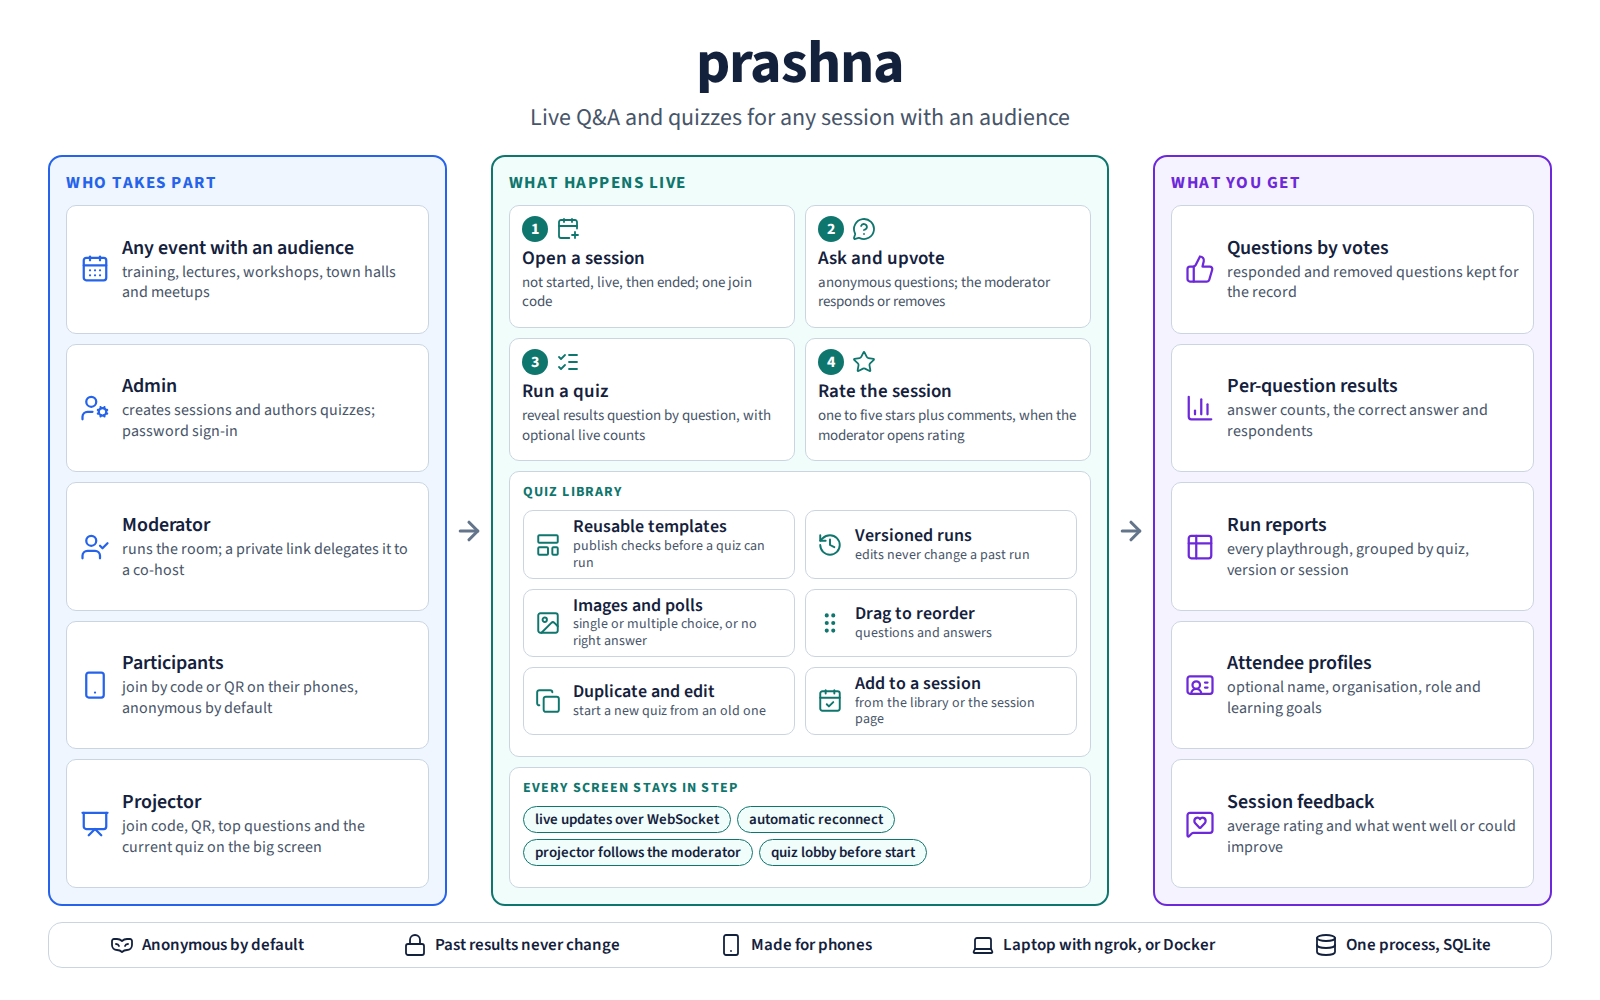
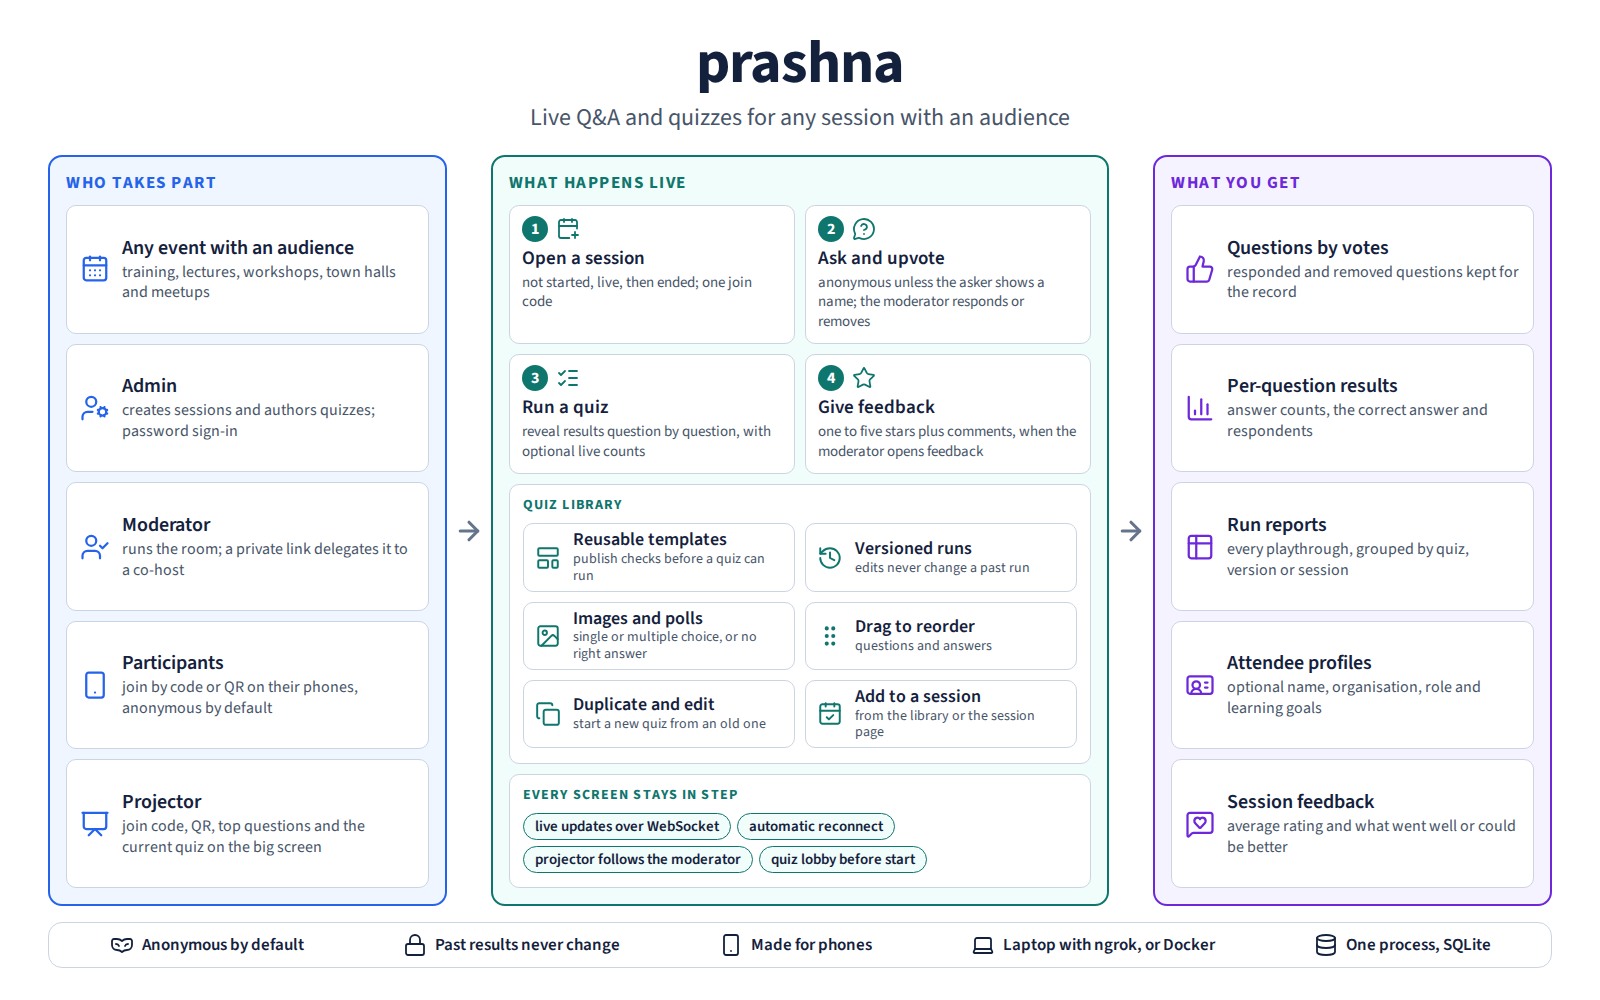
fix(export): call the session feedback column "Feedback open"
The session form (star rating plus comments) is called "Feedback"
everywhere people see it, and "rating" means only the stars. Two places
still used the old wording. The Excel Session sheet's "Rating open"
column is now "Feedback open". The JSON key stays `feedback_enabled`,
which already matches. The README infographic's fourth live step now
reads "Give feedback ... when the moderator opens feedback" instead of
"Rate the session ... when the moderator opens rating".

The infographic was also checked against the current specification.
The Ask step now says questions are anonymous unless the asker shows a
name (UC-P-04), and the feedback card uses the form's own "could be
better" label. The PNG is re-rendered with the project-infographic
renderer; infographic.css is unchanged.

Verified: the updated export tests failed before the rename and pass
after it. The full API and UI suite passes (763 passed, 1 skipped),
and pre-commit passes on all files.

The sankara.net website shows a copy of this infographic, which this
commit does not update.

Changed region(s): [[0.3125, 0.279, 0.6875, 0.868], [0.7812, 0.837, 0.8125, 0.868]]

diff --git a/docs/images/prashna-infographic.html b/docs/images/prashna-infographic.html
@@ -64,7 +64,7 @@
         </div>
         <div class="step">
           <div class="head"><span class="num">2</span><i data-icon="message-circle-question"></i></div>
-          <h3>Ask and upvote</h3><p>anonymous questions; the moderator responds or removes</p>
+          <h3>Ask and upvote</h3><p>anonymous unless the asker shows a name; the moderator responds or removes</p>
         </div>
         <div class="step">
           <div class="head"><span class="num">3</span><i data-icon="list-checks"></i></div>
@@ -72,7 +72,7 @@
         </div>
         <div class="step">
           <div class="head"><span class="num">4</span><i data-icon="star"></i></div>
-          <h3>Rate the session</h3><p>one to five stars plus comments, when the moderator opens rating</p>
+          <h3>Give feedback</h3><p>one to five stars plus comments, when the moderator opens feedback</p>
         </div>
       </div>
       <div class="sub">
@@ -125,7 +125,7 @@
     <div class="card">
       <i data-icon="message-square-heart"></i>
       <div><h3>Session feedback</h3>
-        <p>average rating and what went well or could improve</p></div>
+        <p>average rating and what went well or could be better</p></div>
     </div>
   </section>
 

diff --git a/tests/api/test_export.py b/tests/api/test_export.py
@@ -17,7 +17,7 @@ BOB = "voter-bob-0a1b2c3d4e5f6071"  # pragma: allowlist secret
 
 SESSION_HEADERS = [
     "Session code", "Title", "Status", "Created at", "Started at", "Ended at",
-    "Rating open", "Participant base URL", "Participants", "Questions",
+    "Feedback open", "Participant base URL", "Participants", "Questions",
     "Quiz runs", "Feedback responses", "Average rating",
 ]
 PARTICIPANT_HEADERS = [
@@ -257,7 +257,7 @@ def test_uc_a_30_session_xlsx(admin_client, populated):
     assert session["Participants"] == 2 and session["Questions"] == 2
     assert session["Quiz runs"] == 1 and session["Feedback responses"] == 2
     assert session["Average rating"] == 4
-    assert session["Rating open"] == "Yes"
+    assert session["Feedback open"] == "Yes"
     question = next(q for q in _records(sheets["Questions"]) if q["Question ID"] == populated["query_id"])
     assert question["Votes"] == 1 and question["Responded"] == "Yes"
     assert question["Status"] == "Responded" and question["Asked by"] is None

diff --git a/prashna/export.py b/prashna/export.py
@@ -314,7 +314,7 @@ SESSION_COLUMNS: list[Column] = [
     ("Created at", _key("created_at")),
     ("Started at", _key("started_at")),
     ("Ended at", _key("ended_at")),
-    ("Rating open", lambda r: _yes_no(r["feedback_enabled"])),
+    ("Feedback open", lambda r: _yes_no(r["feedback_enabled"])),
     ("Participant base URL", _key("participant_base_url")),
     ("Participants", _key("participant_count")),
     ("Questions", _key("question_count")),

diff --git a/docs/specs.md b/docs/specs.md
@@ -1006,7 +1006,8 @@ scope narrows with `part`.
   session's `questions` (and `question_count`) are its Q&A entries, while
   a quiz's or a run's `questions` are quiz questions.
 - **Excel** is one workbook with one sheet per table and one header row
-  per sheet in plain words ("Asked at", "Votes", "Responded"). The first
+  per sheet in plain words ("Asked at", "Votes", "Responded", "Feedback
+  open"). The first
   sheet, **About**, lists what was exported (scope and identifiers), when
   (UTC), the Prashna version, and, when the file holds participants'
   names or contact details, a note that it contains personal data.
